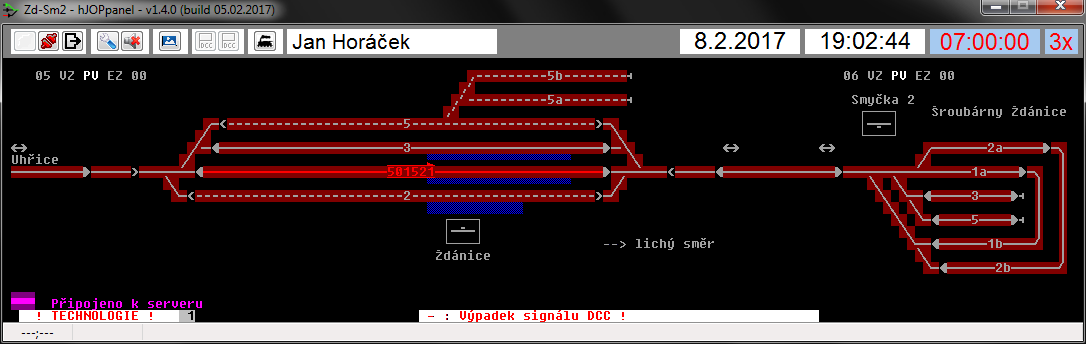
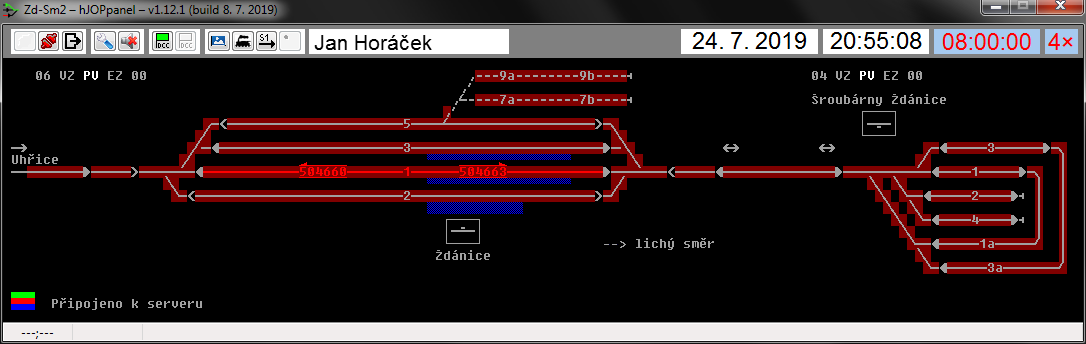
Update hJOPpanel images.

diff --git a/_pages/hJOPpanel.md b/_pages/hJOPpanel.md
@@ -19,7 +19,7 @@ Viz [projekt na githubu](https://github.com/kmzbrnoI/hJOPpanel). V *Releases*
 jsou k dispozici spustitelné soubory ke stažení.
 
 ![hJOPpanel](/assets/img/hJOPpanel-kr-sm1.png)
-*Panel s postavenými vlakovými cestami.*
+*Panel s postavenými vlakovými cestami a zobrazenými popisky bloků.*
 
 ![hJOPpanel](/assets/img/hJOPpanel-dcc.png)
 *Panel s indikující výpadek DCC signálu.*
